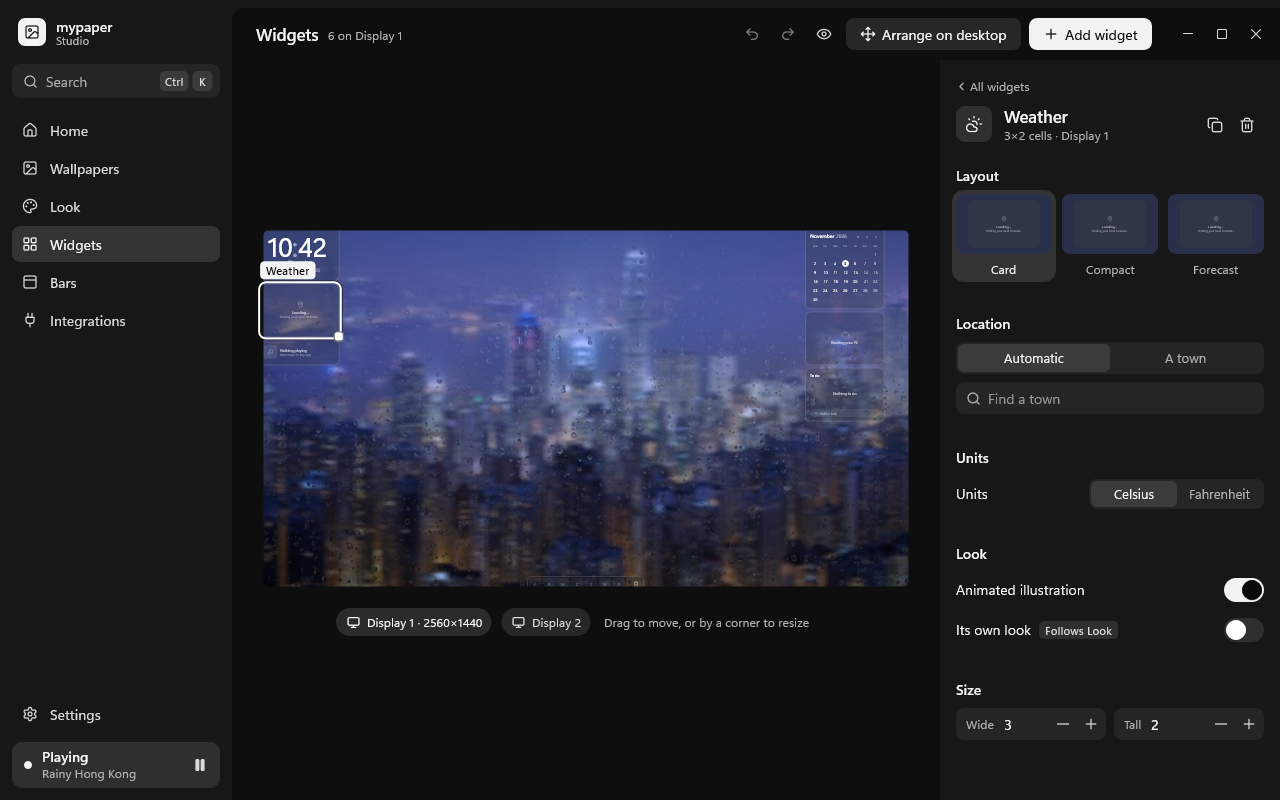
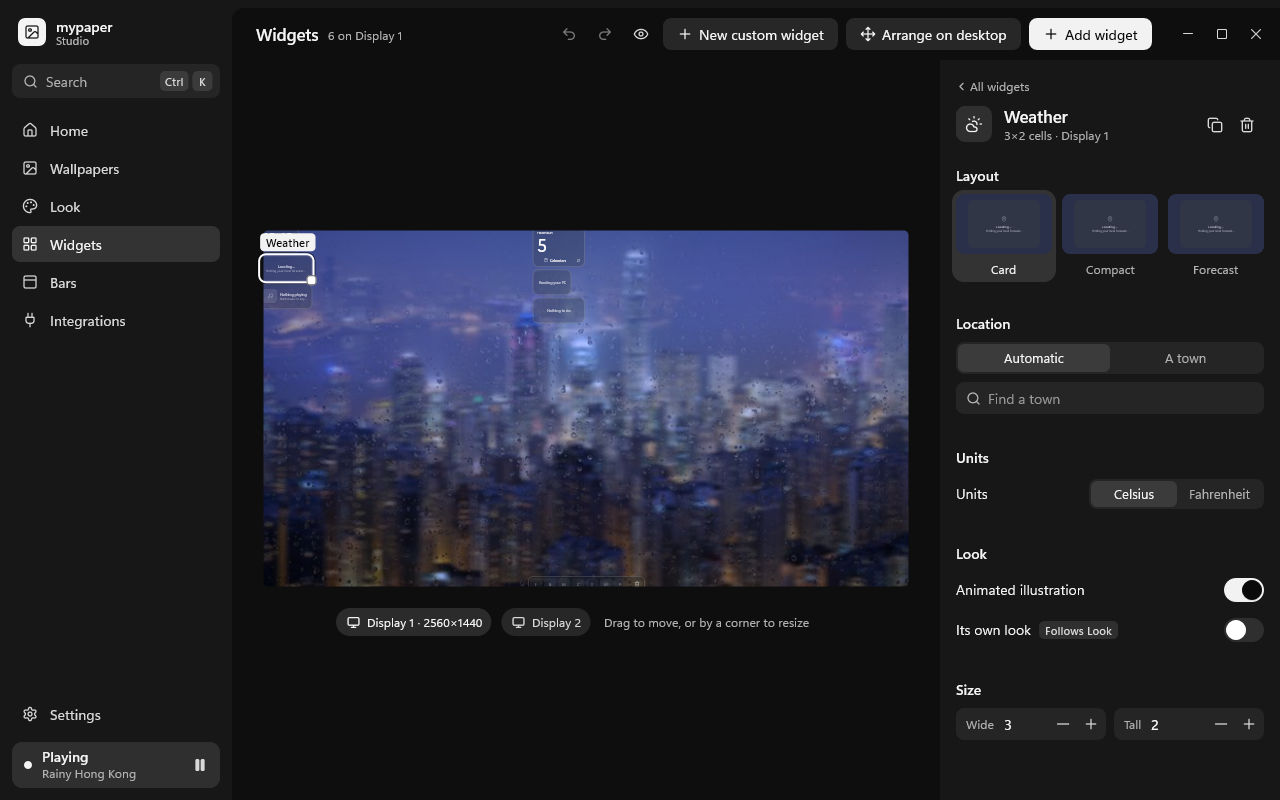
test(integrations): record live calendar and custom source qualification

diff --git a/crates/integrations/examples/personal.rs b/crates/integrations/examples/personal.rs
@@ -1,4 +1,5 @@
 //! Read-only live qualification. Never requests consent, sends a message, or changes vendor state.
+#![windows_subsystem = "windows"]
 use mypaper_integrations::{Availability, Data, Hub, Provider, config::Config};
 use serde_json::json;
 use std::time::Duration;

diff --git a/crates/integrations/evidence/personal-verification.md b/crates/integrations/evidence/personal-verification.md
@@ -1,0 +1,56 @@
+# Personal integration qualification — 2026-11-05
+
+Implementation commits: `f89d3a5`, `f63c97e`, `b29f074` plus the final evidence commit.
+Repository/branch: `D:\Coding\projects\desktop\wallpaper`, `native`, shared checkout.
+
+| Check | Result |
+|---|---|
+| `cargo check -p mypaper-shell -p mypaper-studio` | Passed after the concurrent owners finished their shared API edits. |
+| `cargo test -p mypaper-integrations` | 19 passed (9 library, 10 integration); includes Credential Manager, provider lifecycle and cancellation-safe Discord IPC frames. |
+| `cargo test -p mypaper-widgets --lib` | 131 passed, 3 ignored. |
+| Shell `custom_tests` | 2 passed: imported data stays separate from local events; dense native frames, account scrolling and custom templates at 150% scaling stay within their frames. |
+| Studio `goldens::widgets` | Passed for dark and light; both images were generated, dark was inspected. |
+| Clippy for integrations/widgets/shell | Passed; remaining warnings were in other agents' bars/flyouts/toggles code. No warning remained in owned runtime files. |
+| Four shipped custom examples, real evaluation | All passed in isolated APPDATA: static text, GitHub HTTPS JSON (`1.99.1`), local file and bounded local command (disk gauge `88`). Each was present as a separate multi-instance catalog entry. |
+| `cargo build --release --workspace` | Passed with `CARGO_TARGET_DIR=C:\mypaper-targets\main`; final successful rebuild took 1m17s. |
+| `scripts/deploy-local.ps1` | Completed under its desktop lock. Package `mypaper.Desktop_0.1.0.3_neutral__21v47vsar82ra` is installed. Core/shell/wallpaper resumed from `target\release`. |
+| Open Studio | Left running as required. Deploy swapped its executable without closing the user's window; restart Studio to use the new Widgets entry. |
+| Windows AppointmentStore | The real read-only API succeeded and returned 0 events. This proves the store is accessible here, not that Outlook/Google accounts populate it. See `personal-unpackaged.json`, whose `packaged` field is explicitly false. |
+| Live native calendar | Captured and inspected at 415×313 after deployment, using PrintWindow under the desktop lock. Month layout, date, controls and new Calendars action render. No events were available from the current real Windows store. |
+| Real Discord | Discord was running; its retained Windows notification count was 0. No developer app, bot credentials or RPC/tester grant was configured. No message or voice-setting action was sent. The minimized Discord window could not provide a useful screenshot and was left untouched. |
+
+The native fixture sheets were inspected directly: `golden-personal/discord.png` (including call,
+setup and bot composition), `calendar.png` (month, agenda and sources) and `custom-fixture.png`
+(text/stat/list/gauge). They use labelled fixture data, not the user's Discord account.
+
+## Remaining qualification limits
+
+- The complete shell library suite terminates with Windows exception `0xe06d7363`; serial execution
+  stops at `flyouts::tests::every_flyout_matches_its_golden_image_and_takes_clicks_on_its_whole_body`.
+  The owned focused tests pass. No flyout code was changed to work around it.
+- `Invoke-CommandInDesktopPackage` hung while attempting a separate read-only diagnostic process.
+  The diagnostic did not produce an evidence file and its launcher was stopped. It is not counted
+  as a successful packaged API probe. The deployed widget screenshot and installed identity are
+  separate observations.
+- Google and Microsoft OAuth, real recurring account data, Discord RPC delivery/controls and bot
+  history/sending require the user's registered client IDs/grants and credentials. These were not
+  invented, extracted from apps or tested by sending messages. Setup is documented in `../PERSONAL.md`.
+- Authenticated-provider CPU/RAM/idle gates were not measured without those registrations. The
+  full product's performance gate belongs to the combined desktop run, not these fixture tests.
+
+## Shared hooks needed by this slice
+
+The additive hooks outside dedicated provider/view files are in the widget model (the Custom kind
+and refresh deadline), widget host (field submission and catalog reload), view dispatcher, Studio's
+Open action dispatch, notification reading (Discord-only preview consent), and the package's
+`appointments` capability. Calendar view changes are limited to event iteration, calendar colours
+and hiding edit controls for imported events; the month grid code was not rewritten. Existing
+T3/Grok dispatcher hooks from their owner were preserved in the shared interface commit.
+
+Public interfaces: `Provider::{Calendar,Discord}`, `Data::{Calendar,Discord}`,
+`Action::DiscordVoice { muted, deafened }`, `config::{Calendar,Discord}`,
+`notifications.discordPreviews`, `calendar_oauth::{Service,connect,disconnect}` and
+`custom::{Definition,Template,Source,load,catalog,evaluate,install_examples}`. The ordinary catalog
+is still `registry::builtins()`; file `widgets/name.json` registers as `custom-name`.
+
+No user application received synthetic input. No user window was moved, minimized or closed.
